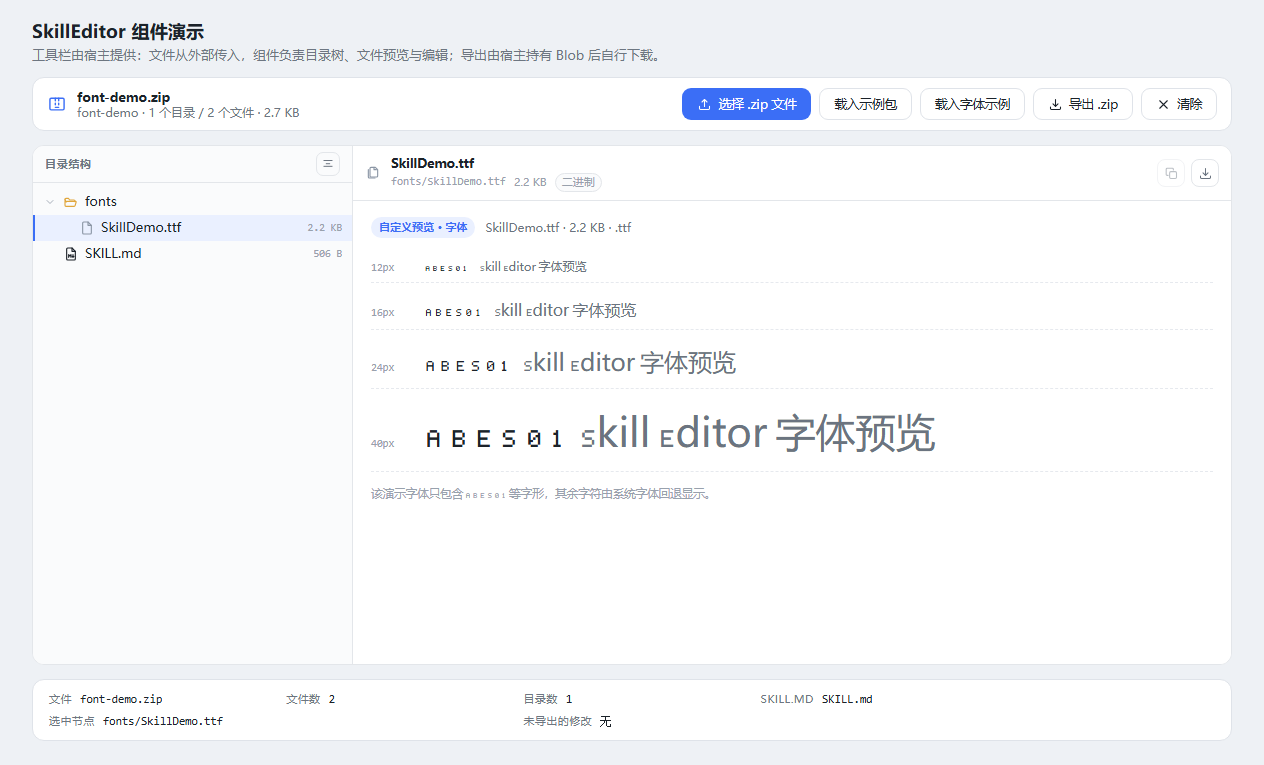
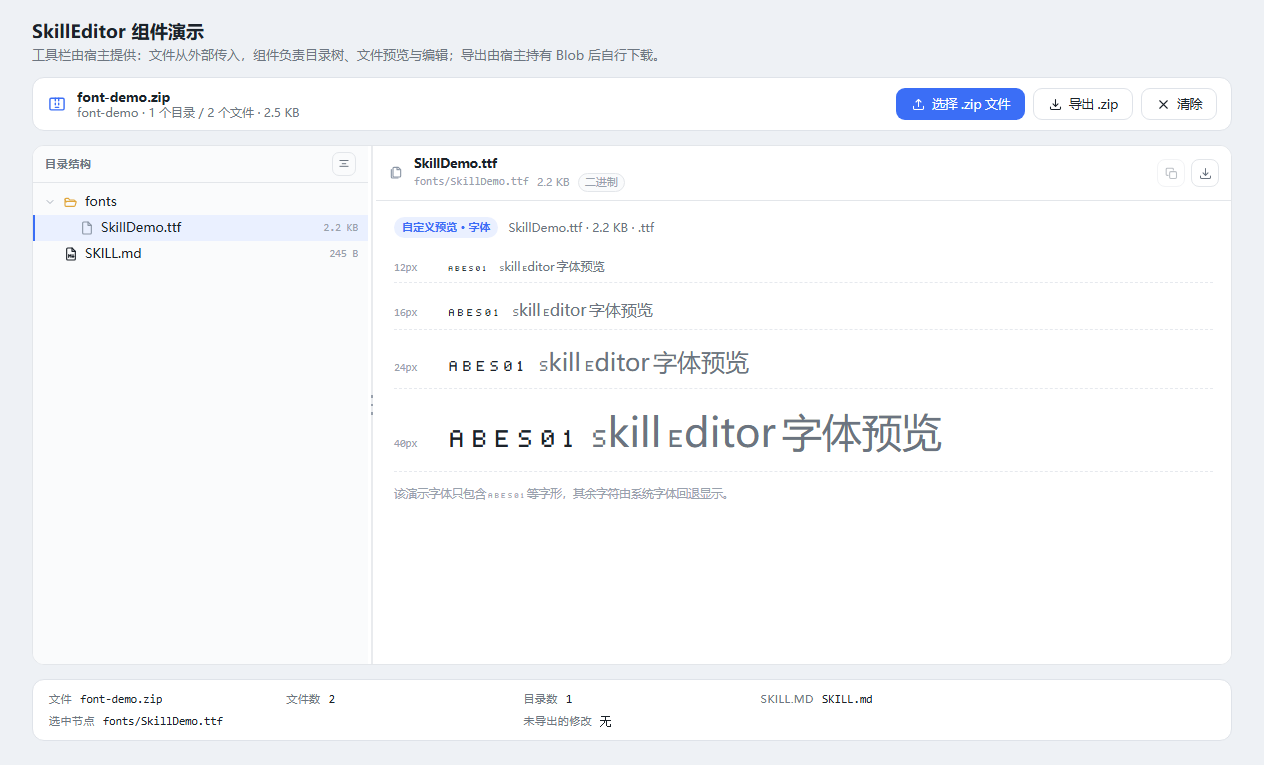
chore(demo): 移除「载入字体示例」按钮，字体预览改为外部载入即可演示
- DemoApp 去掉 loadFontSample 与对应工具栏按钮：字体预览器仍保持注册，载入任意包含 .ttf
  的技能包并选中字体文件即可看到样张，不再在演示页内置造包逻辑
- 删除 scripts/make-demo-font.py 与 src/demo/fixtures/SkillDemo.ttf（仅被该按钮使用）
- README 相关说明同步为「载入包含 .ttf 的技能包」，在线演示一节更新工具栏描述
- phase10 驱动脚本改为通过文件输入框载入内嵌字体的压缩包；phase11 脚本等待目录树就绪
- 重新生成 phase10 / phase11 截图

验证：168 个用例全部通过，pnpm typecheck 退出码 0

diff --git a/src/demo/DemoApp.tsx b/src/demo/DemoApp.tsx
@@ -1,5 +1,5 @@
 import { useCallback, useEffect, useRef, useState } from 'react';
-import { SkillEditor, writeZipArchive } from '../index';
+import { SkillEditor } from '../index';
 import type { EditSummary, SkillEditorHandle } from '../components/SkillEditor';
 import type { SkillArchiveResult } from '../lib/loadSkillArchive';
 import type { SkillTreeNode } from '../lib/skillTree';
@@ -7,7 +7,6 @@ import { formatBytes } from '../lib/format';
 import { fontPreviewer } from './FontPreview';
 import { ArchiveIcon, CloseIcon, DownloadIcon, UploadIcon } from './icons';
 import sampleZipUrl from './sample/api-call-by-knowledge.zip?url';
-import fontUrl from './fixtures/SkillDemo.ttf?url';
 import './styles.css';
 
 /** Reject obviously wrong files before handing them to the editor. */
@@ -60,7 +59,6 @@ export function DemoApp() {
   const [result, setResult] = useState<SkillArchiveResult | null>(null);
   const [selected, setSelected] = useState<SkillTreeNode | null>(null);
   const [error, setError] = useState<string | null>(null);
-  const [loading, setLoading] = useState(false);
   const [edits, setEdits] = useState<EditSummary>({
     dirty: false,
     count: 0,
@@ -93,7 +91,6 @@ export function DemoApp() {
   };
 
   const loadSample = useCallback(async () => {
-    setLoading(true);
     setError(null);
     try {
       const response = await fetch(sampleZipUrl);
@@ -104,8 +101,6 @@ export function DemoApp() {
       setSelected(null);
     } catch (caught) {
       setError(caught instanceof Error ? caught.message : '示例文件加载失败。');
-    } finally {
-      setLoading(false);
     }
   }, []);
 
@@ -114,51 +109,6 @@ export function DemoApp() {
     requestedSample.current = true;
     void loadSample();
   }, [loadSample]);
-
-  /**
-   * Build a package in the browser that contains a `.ttf`, so the demo can show
-   * the host-registered font previewer. The zip is produced with the library's
-   * own writer — no server round-trip.
-   */
-  const loadFontSample = useCallback(async () => {
-    setLoading(true);
-    setError(null);
-    try {
-      const response = await fetch(fontUrl);
-      if (!response.ok) throw new Error(`字体文件请求失败（HTTP ${response.status}）。`);
-      const fontBytes = new Uint8Array(await response.arrayBuffer());
-      const encoder = new TextEncoder();
-      const manifest = [
-        '---',
-        'name: font-demo',
-        'description: "自定义文件预览组件演示：字体文件"',
-        '---',
-        '',
-        '# 字体预览演示',
-        '',
-        '本包中的 `fonts/SkillDemo.ttf` 由**宿主注册的自定义预览器**渲染，',
-        '而不是内置的「二进制内容暂不支持预览」提示。',
-        '',
-        '```tsx',
-        "previewers={[{ match: byExtension('ttf', 'otf'), render: FontPreview }]}",
-        '```',
-        '',
-        'SkillEditor 只负责读出字节、生成 Blob URL，并把控制权交给预览组件；',
-        '字体、PDF、Excel 等格式都可以用同样的方式接入。',
-      ].join('\n');
-      const zip = await writeZipArchive([
-        { path: 'font-demo/SKILL.md', data: encoder.encode(manifest) },
-        { path: 'font-demo/fonts/SkillDemo.ttf', data: fontBytes },
-      ]);
-      setFile(new File([zip.slice() as BlobPart], 'font-demo.zip', { type: 'application/zip' }));
-      setResult(null);
-      setSelected(null);
-    } catch (caught) {
-      setError(caught instanceof Error ? caught.message : '字体示例加载失败。');
-    } finally {
-      setLoading(false);
-    }
-  }, []);
 
   const pickFile = (picked: File | undefined | null): void => {
     if (!picked) return;
@@ -217,19 +167,6 @@ export function DemoApp() {
               event.target.value = '';
             }}
           />
-          <button type="button" className="demo__button demo__button--ghost" onClick={() => void loadSample()} disabled={loading}>
-            {loading ? '加载示例…' : '载入示例包'}
-          </button>
-          <button
-            type="button"
-            className="demo__button demo__button--ghost"
-            data-testid="demo-font-sample"
-            onClick={() => void loadFontSample()}
-            disabled={loading}
-            title="演示宿主自定义的文件预览组件：.ttf 字体"
-          >
-            载入字体示例
-          </button>
           <button
             type="button"
             className={`demo__button${edits.dirty ? '' : ' demo__button--ghost'}`}

diff --git a/README.md b/README.md
@@ -18,7 +18,7 @@
 
 - 地址：https://hp-future.github.io/skill-editor/
 - 演示页源码在 [`src/demo`](https://github.com/hp-future/skill-editor/blob/main/src/demo)，推送到 `main` 后由 GitHub Actions 自动构建并发布到 GitHub Pages
-- 演示包默认载入 `api-call-by-knowledge.zip`；工具栏还提供「载入字体示例」用于查看宿主自定义预览组件
+- 打开后自动载入示例包 `api-call-by-knowledge.zip`；演示页注册了字体预览器，载入包含 `.ttf` 的技能包即可看到自定义预览效果
 
 ## 特性
 
@@ -160,7 +160,7 @@ const fontPreviewer = {
 | 优先级 | 命中的预览器 > `renderFilePreview` > 内置预览 |
 | 状态 | 读取期间保留组件的 loading 提示，失败保留错误提示，只有 `ready` 时才渲染预览组件 |
 
-演示页点「载入字体示例」会现场生成一个包含 `fonts/SkillDemo.ttf` 的技能包，可直接验证：
+演示页注册的是 [`src/demo/FontPreview.tsx`](https://github.com/hp-future/skill-editor/blob/main/src/demo/FontPreview.tsx)：载入任意包含 `.ttf` 的技能包，选中字体文件即可看到样张（下图即该组件的输出）：
 
 ![自定义字体预览](https://raw.githubusercontent.com/hp-future/skill-editor/main/docs/phase10-font.png)
 
@@ -286,7 +286,7 @@ pnpm preview:demo  # 本地预览构建产物 http://localhost:4173/skill-editor
 
 仓库改名、改用自定义域名或换静态托管时，用 `pnpm build:demo --base=/` 覆盖 `base` 即可。
 
-演示页（`src/demo`）自带宿主工具栏：选择 `.zip`、载入示例包、载入字体示例、导出、清除。
+演示页（`src/demo`）自带宿主工具栏：选择 `.zip`、导出、清除；打开时自动载入示例包。
 
 ```
 src/
